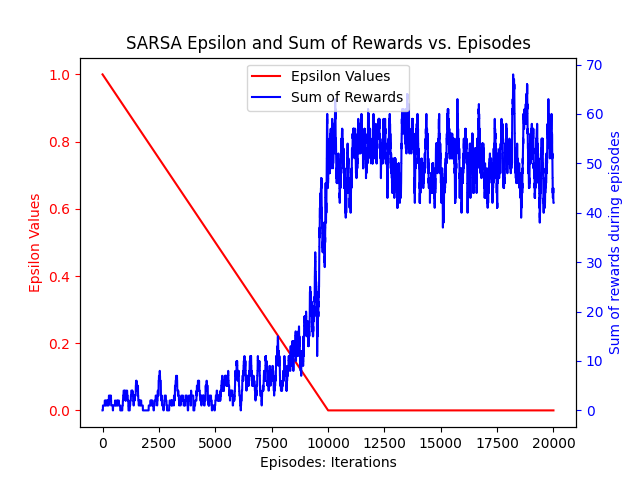
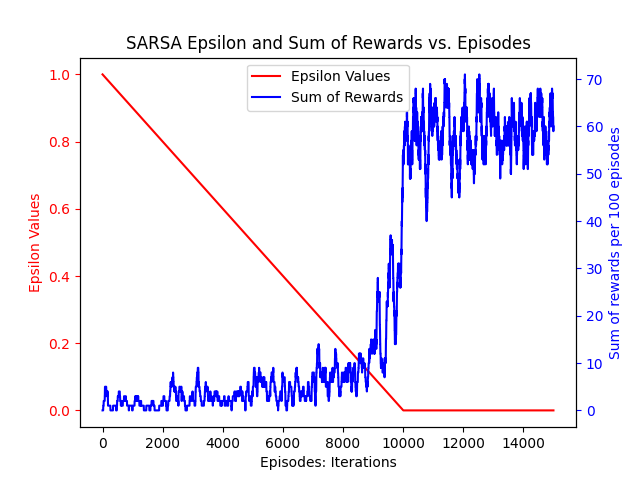
ed

diff --git a/RL Methods/SARSA/sarsa.py b/RL Methods/SARSA/sarsa.py
@@ -128,7 +128,7 @@ def run(episodes, render=False):
     # Plot sum of rewards on the first y-axis
     ax2 = ax1.twinx() # Used for the graphing software of both in one.
     ax2.plot(sum_rewards, label='Sum of Rewards', color='b')
-    ax2.set_ylabel('Sum of rewards during episodes', color='b')
+    ax2.set_ylabel('Sum of rewards per 100 episodes', color='b')
     ax2.tick_params('y', colors='b')
 
     # Combine legends from both axes
@@ -143,7 +143,7 @@ def run(episodes, render=False):
 
 # Used to run the SARSA method.
 if __name__ == '__main__':
-    run(20000)
+    run(15000)
 
 '''
     # Evaluate policy

diff --git a/RL Methods/Q-learning/QLearning.py b/RL Methods/Q-learning/QLearning.py
@@ -117,7 +117,7 @@ def run(episodes, render=False):
     # Plot sum of rewards on the first y-axis
     ax2 = ax1.twinx() # Used for the graphing software of both in one.
     ax2.plot(sum_rewards, label='Sum of Rewards', color='b')
-    ax2.set_ylabel('Sum of rewards during episodes', color='b')
+    ax2.set_ylabel('Sum of rewards per 100 episodes', color='b')
     ax2.tick_params('y', colors='b')
 
     # Combine legends from both axes
@@ -131,7 +131,7 @@ def run(episodes, render=False):
 
 # Used to run the Q-learning method.
 if __name__ == '__main__':
-    run(20000)
+    run(15000)
 
 
 '''
